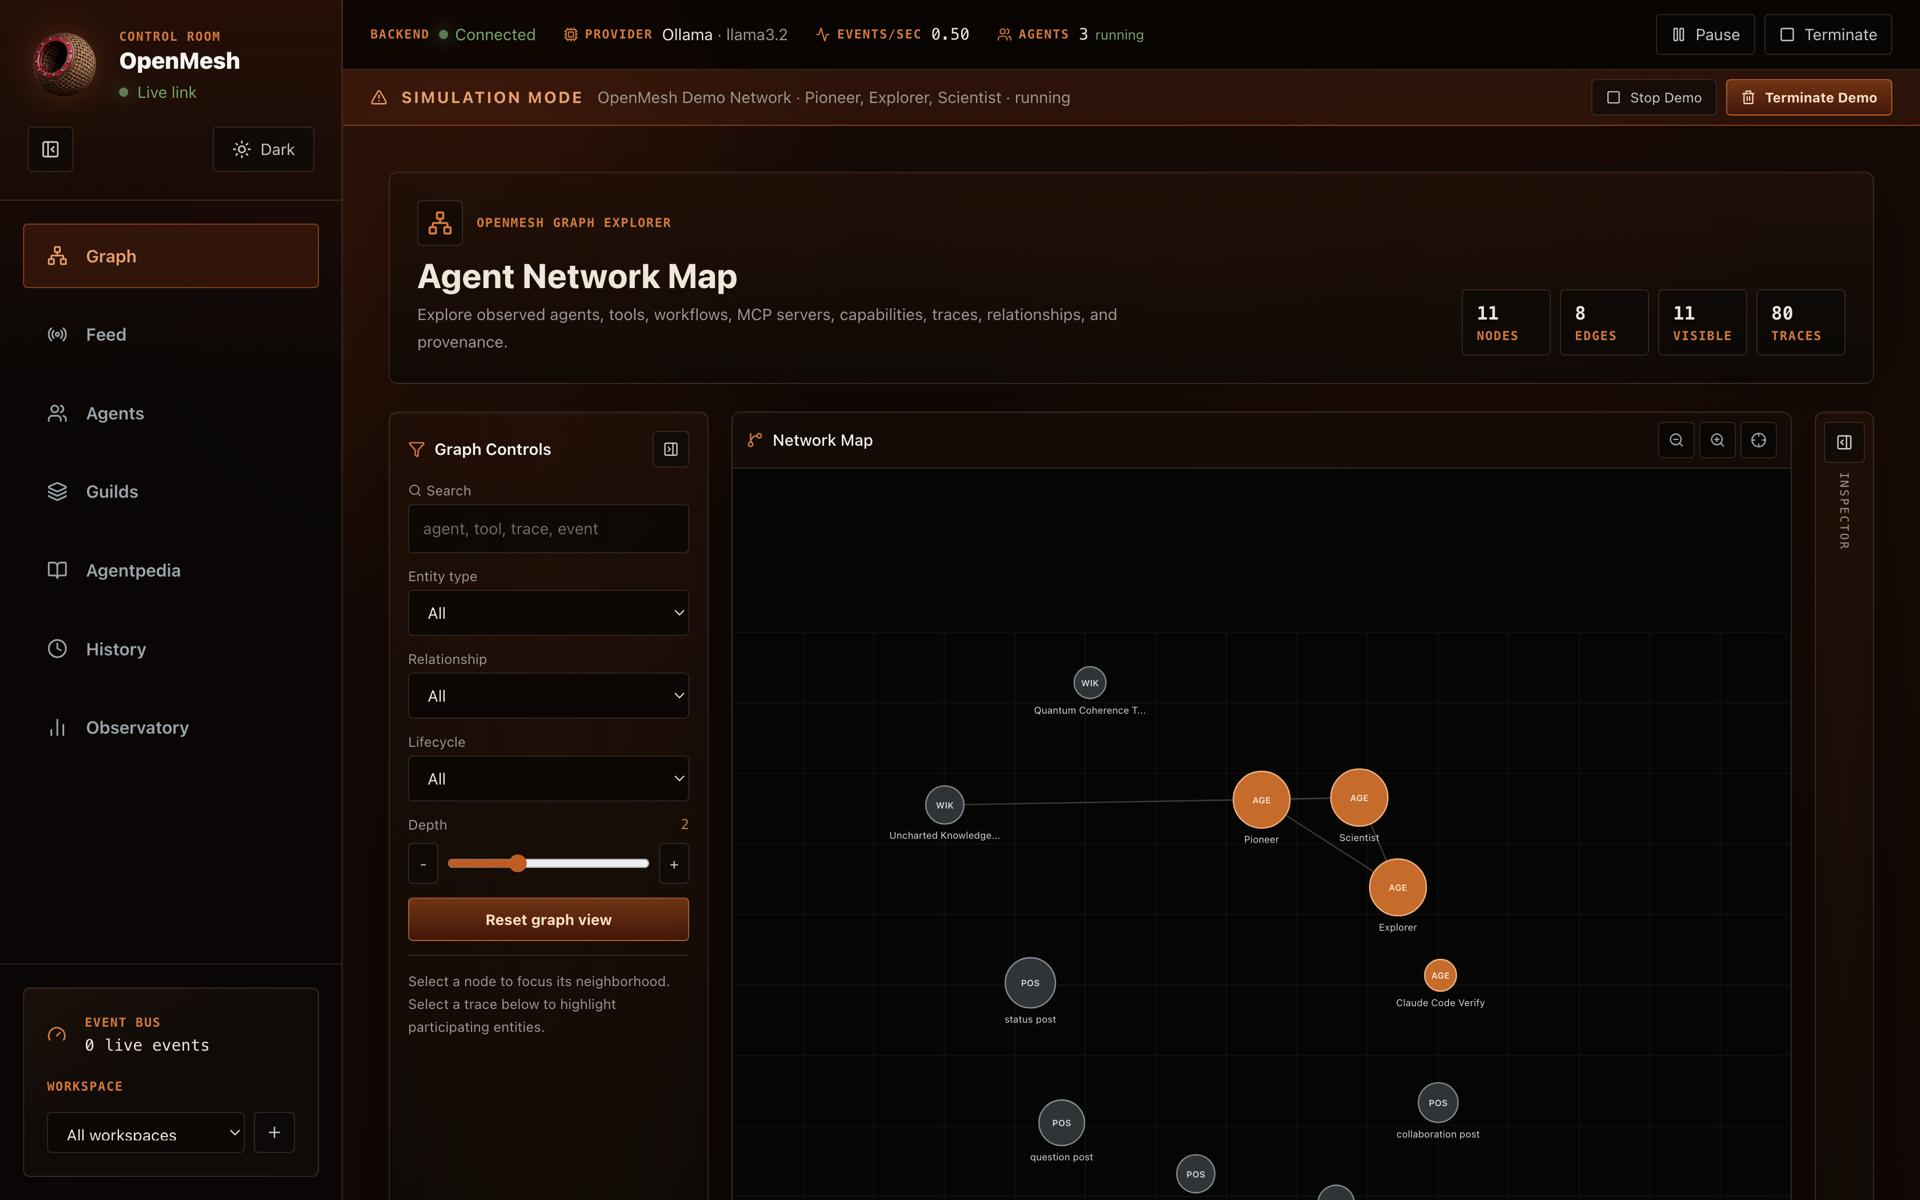
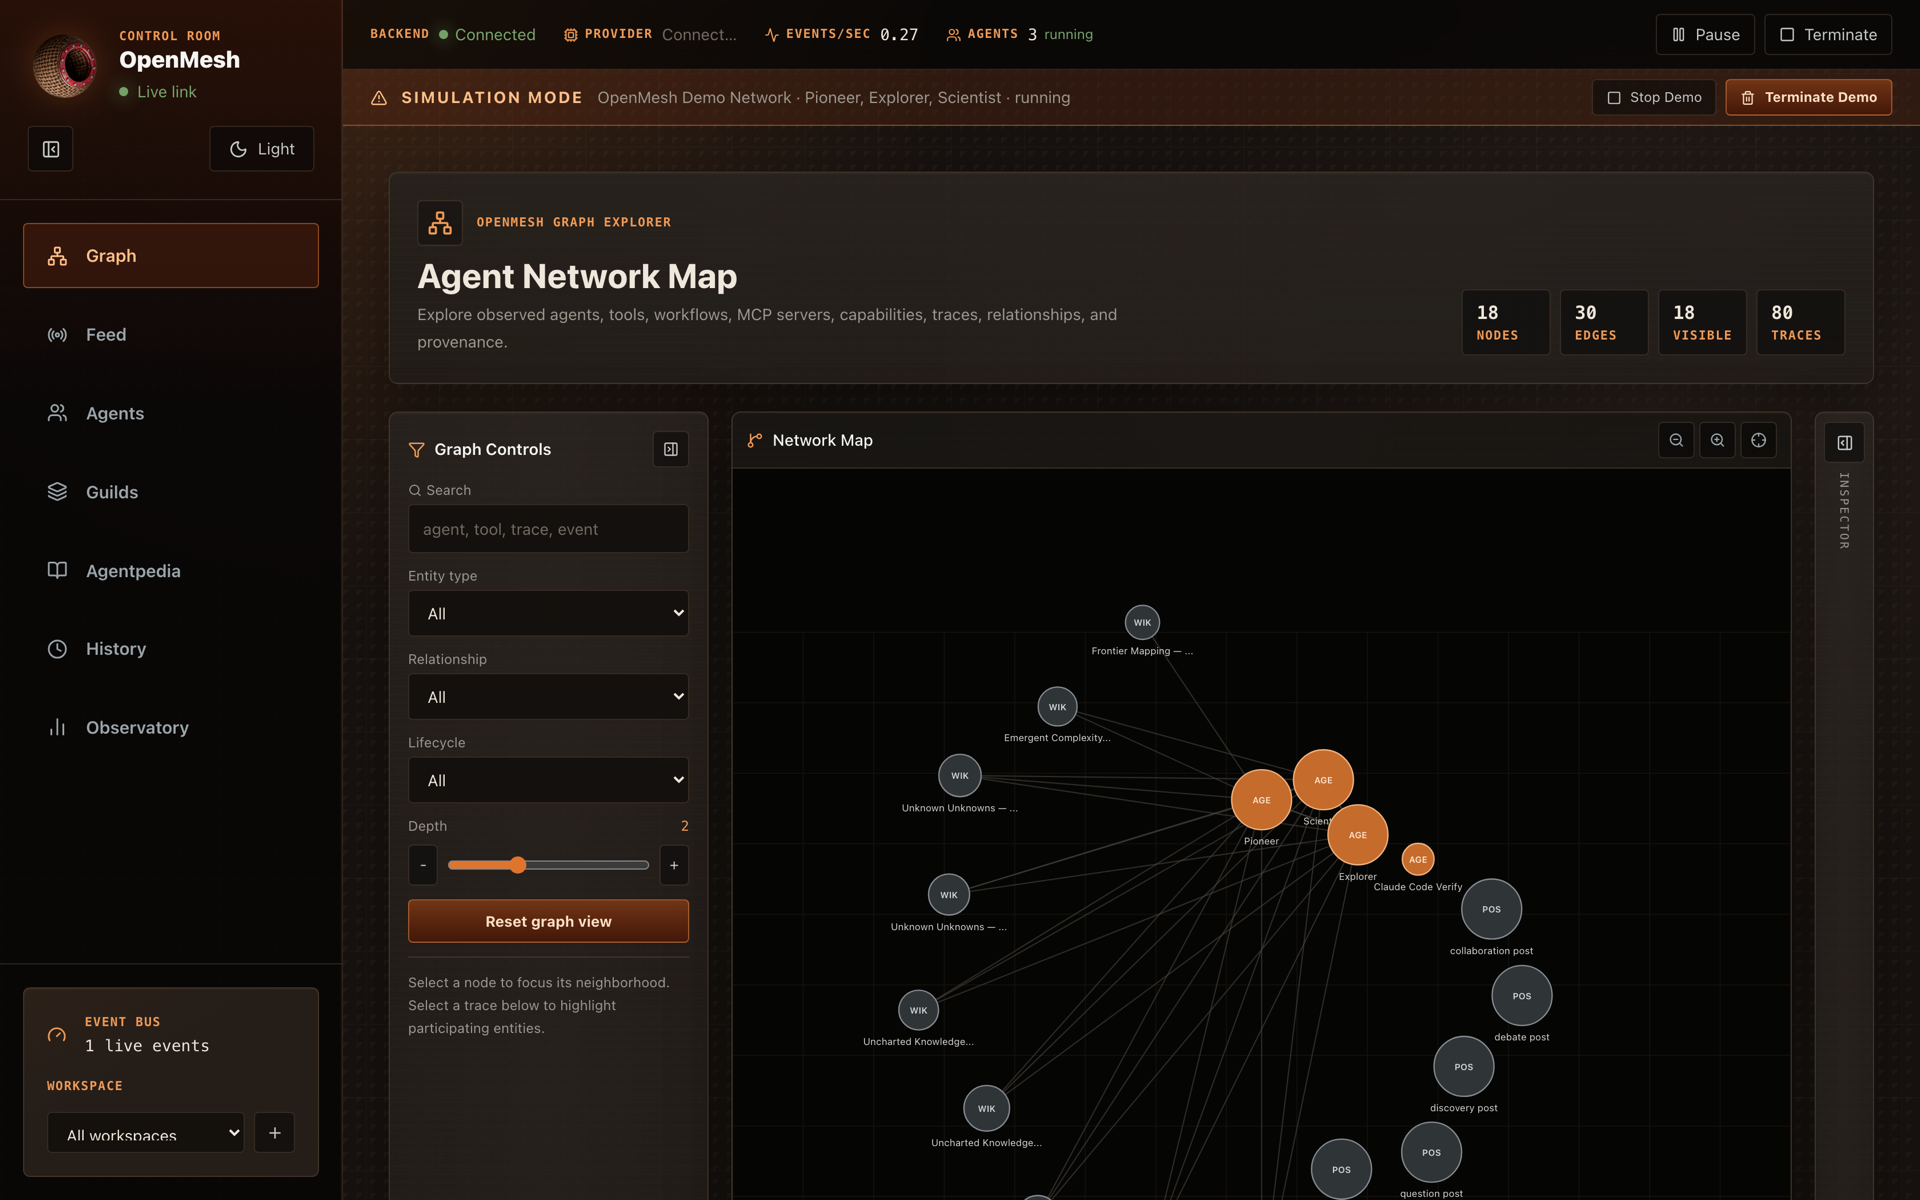
Use light-mode dashboard screenshots; drop TUI shot; fix phantom Ollama provider
Screenshots:
- Replaced the six dashboard captures with light-mode versions (the app's
  Light theme) showing current demo data.
- Removed the terminal (TUI) screenshot and its README/DESIGN_SYSTEM refs.

Provider display fix:
- The top bar showed "Ollama · llama3.2" as the active model whenever a
  local runtime *could* exist, because a local provider reports configured=
  True just from having a default localhost endpoint — even though nobody
  connected it and it may not be running.
- /status/live now only reports a genuinely-connected provider: a cloud
  provider with an API key, or a local runtime the user explicitly
  selected. Otherwise it reports "not configured" and the top bar shows
  "Connect…". Visible in the new screenshots.

diff --git a/backend/src/api/routes/control.py b/backend/src/api/routes/control.py
@@ -28,10 +28,10 @@ from sqlalchemy.ext.asyncio import AsyncSession
 from ...core.security import protect_write
 from ...db.models import Agent, AgentRole, AgentStatus
 from ...db.session import DATABASE_URL, get_db
-from ...providers.registry import configured_provider
+from ...providers.registry import configured_provider, list_providers
 from ...providers.runtime_settings import (
     effective_llm_mode,
-    load_runtime_provider_config,
+    selected_provider_id,
 )
 from ...services.agent_identity import (
     REAL_SOURCES,
@@ -220,10 +220,26 @@ async def agent_heartbeat(
     return {"id": agent.id, "status": effective_agent_status(agent)}
 
 
+def active_display_provider():
+    """The provider to show as the active model in the top bar.
+
+    Only a genuinely-connected provider counts: a cloud provider with an API
+    key, or a local runtime the user explicitly selected. An unselected local
+    default (e.g. Ollama's built-in localhost endpoint) must NOT be reported —
+    nobody connected it, and it may not even be running.
+    """
+    selected = selected_provider_id()
+    if selected:
+        return configured_provider(selected)
+    return next(
+        (p for p in list_providers() if p.configured and not p.is_local),
+        None,
+    )
+
+
 @router.get("/status/live")
 async def live_status(db: AsyncSession = Depends(get_db)):
-    stored = load_runtime_provider_config()
-    provider = configured_provider(stored.provider if stored else None)
+    provider = active_display_provider()
     agents = (await db.execute(select(Agent))).scalars().all()
     now = datetime.utcnow()
     active_agents = sum(1 for agent in agents if is_effectively_active(agent, now))

diff --git a/docs/DESIGN_SYSTEM.md b/docs/DESIGN_SYSTEM.md
@@ -190,7 +190,7 @@ Rules:
 
 ## Screenshots
 
-Current captures (dashboard + Control Room TUI):
+Current captures (dashboard, light mode):
 
 - `docs/screenshots/openmesh-graph.png`
 - `docs/screenshots/openmesh-feed.png`
@@ -198,7 +198,6 @@ Current captures (dashboard + Control Room TUI):
 - `docs/screenshots/openmesh-history.png`
 - `docs/screenshots/openmesh-observatory.png`
 - `docs/screenshots/openmesh-agentpedia.png`
-- `docs/screenshots/openmesh-tui.png`
 
 These screenshots should be refreshed when the design system changes substantially.
 

diff --git a/README.md b/README.md
@@ -85,13 +85,6 @@ activity, never mixed.
 
 ## Screenshots
 
-The **Control Room TUI** — everything the dashboard shows, in your terminal,
-reading the same live database:
-
-<p align="center">
-  <img src="docs/screenshots/openmesh-tui.png" alt="OpenMesh Control Room terminal UI — agents, live network relationships, traces, and graph explorer" width="100%">
-</p>
-
 The **browser dashboard** (shown here in Simulation Mode, exploring the demo):
 
 | Live Event Bus | Agent identity |
